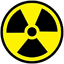
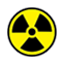
Added Male Female changer no functionality yet
All the items now appear on the side bar and can be deployed however now we will need only to implement correctly the sterilise class, female and male changers classes

Small corrections towards the icons a bit smaller

diff --git a/src/InGameController.java b/src/InGameController.java
@@ -45,6 +45,15 @@ public class InGameController implements Initializable {
     
     @FXML
     private TilePane poisonPane;
+    
+    @FXML
+    private TilePane sterilisePane;
+    
+    @FXML
+    private TilePane maleGenderChangePane;
+    
+    @FXML
+    private TilePane femaleGenderChangePane;
 
     @FXML
     private Canvas minimap;
@@ -104,6 +113,9 @@ public class InGameController implements Initializable {
         sideBar = sideBar + gasPane.getChildren().size() + ",";
         sideBar = sideBar + stopSignPane.getChildren().size() + ",";
         sideBar = sideBar + poisonPane.getChildren().size() + ",";
+        sideBar = sideBar + sterilisePane.getChildren().size() + ",";
+        sideBar = sideBar + maleGenderChangePane.getChildren().size() + ",";
+        sideBar = sideBar + femaleGenderChangePane.getChildren().size() + ",";
         return sideBar;
     }
 
@@ -145,6 +157,12 @@ public class InGameController implements Initializable {
             return "stopSign";
         } else if (type.equals(ElementType.Poison)) {
         	return "poison";
+        } else if (type.equals(ElementType.Sterilise)) {
+        	return "sterilise";
+        } else if (type.equals(ElementType.MaleGenderChange)) {
+        	return "maleGenderChange";
+        } else if (type.equals(ElementType.FemaleGenderChange)) {
+        	return "femaleGenderChange";
         }
         return "invalid type";
     }
@@ -196,6 +214,18 @@ public class InGameController implements Initializable {
         while(poisonPane.getChildren().size() >0) {
         	poisonPane.getChildren().remove(0);
         }
+        
+        while(sterilisePane.getChildren().size() > 0) {
+        	sterilisePane.getChildren().remove(0);
+        }
+        
+        while(maleGenderChangePane.getChildren().size() > 0) {
+        	maleGenderChangePane.getChildren().remove(0);
+        }
+        
+        while(femaleGenderChangePane.getChildren().size() > 0) {
+        	femaleGenderChangePane.getChildren().remove(0);
+        }
     }
 
 
@@ -220,11 +250,23 @@ public class InGameController implements Initializable {
                 if(stopSignPane.getChildren().size() <maxItems) {
                     stopSignPane.getChildren().add(getItem(ElementType.StopSign));
                 }
-            } else if(itemType.equals(ElementType.Poison)) {
+            } else if (itemType.equals(ElementType.Poison)) {
             	if(poisonPane.getChildren().size() <maxItems) {
             		poisonPane.getChildren().add(getItem(ElementType.Poison));
             	}
-            } else {
+            } else if (itemType.equals(ElementType.Sterilise)) {
+            	if (sterilisePane.getChildren().size() < maxItems) {
+            		sterilisePane.getChildren().add(getItem(ElementType.Sterilise));
+            	}
+        	} else if (itemType.equals(ElementType.MaleGenderChange)) {
+        		if (maleGenderChangePane.getChildren().size() < maxItems) {
+        			maleGenderChangePane.getChildren().add(getItem(ElementType.MaleGenderChange));
+        		}
+        	} else if (itemType.equals(ElementType.FemaleGenderChange)) {
+        		if (femaleGenderChangePane.getChildren().size() < maxItems) {
+        			femaleGenderChangePane.getChildren().add(getItem(ElementType.FemaleGenderChange));
+        		}
+        	} else {
                 System.out.println("invalid item type");
 
             }
@@ -254,6 +296,12 @@ public class InGameController implements Initializable {
             stopSignPane.getChildren().remove(0);
         } else if (lastItem.equals(ElementType.Poison)) {
         	poisonPane.getChildren().remove(0);
+        } else if (lastItem.equals(ElementType.Sterilise)) {
+        	sterilisePane.getChildren().remove(0);
+        } else if (lastItem.equals(ElementType.MaleGenderChange)) {
+        	maleGenderChangePane.getChildren().remove(0);
+        } else if (lastItem.equals(ElementType.FemaleGenderChange)) {
+        	femaleGenderChangePane.getChildren().remove(0);
         }
     }
 
@@ -275,6 +323,12 @@ public class InGameController implements Initializable {
             Game.currentLevel.addElement(new StopSign(ElementType.StopSign, Game.currentLevel, (int)(x/Game.gameSize), (int)(y/Game.gameSize), 3));
         } else if(type.equals(ElementType.Poison)) {
         	Game.currentLevel.addElement(new Poison(ElementType.Poison, Game.currentLevel, (int)(x/Game.gameSize), (int)(y/Game.gameSize), 1));
+    	} else if(type.equals(ElementType.Sterilise)) {
+    		Game.currentLevel.addElement(new Sterilise(ElementType.Sterilise, Game.currentLevel, (int)(x/Game.gameSize), (int)(y/Game.gameSize), 2));
+    	} else if(type.equals(ElementType.MaleGenderChange)) {
+    		Game.currentLevel.addElement(new MaleChanger(ElementType.MaleGenderChange, Game.currentLevel, (int)(x/Game.gameSize), (int)(y/Game.gameSize), 1));
+    	} else if(type.equals(ElementType.FemaleGenderChange)) {
+    		Game.currentLevel.addElement(new FemaleChanger(ElementType.FemaleGenderChange, Game.currentLevel, (int)(x/Game.gameSize), (int)(y/Game.gameSize), 1));
     	} else {
             System.out.println("invalid item type");
         }

diff --git a/src/FemaleChanger.java b/src/FemaleChanger.java
@@ -3,33 +3,35 @@ import javafx.scene.paint.Color;
 import javafx.scene.image.Image;
 
 
-/**
- * Class used for construction and behaviours of Steriliser elements
- * @author William Randle, Jack Lennard,
- */
-public class Sterilise extends Element {
-	
-	protected int sterilisedRats;
+
+public class FemaleChanger extends Element {
 	
 	private Image image;
+	
+	private int femaleChangeCount;
+	
+	
 
-    public Sterilise(ElementType type, Level level, int x, int y, int health) {
+	public FemaleChanger(ElementType type, Level level, int x, int y, int health) {
 		super(type, level, x, y, Direction.North, health);
 		// TODO Auto-generated constructor stub
 		
-		image = ImageLoader.getImage("sterilise.png", 64);
+		femaleChangeCount = 0;
 		
-		sterilisedRats = 0;
+		image = ImageLoader.getImage("femaleGenderChange.png", 64);
+		
 	}
-
-    /**
+	
+	
+	/**
      * Runs Tick() behaviours, allowing them to run logics automatically 
      * in time with other elements
      */
-    protected void tick() {
+	@Override
+	protected void tick() {
         if (level.getTile(x,y).getType().equals(TileType.Grass)) {
             level.removeElement(this);
-            System.out.println("deleting sterilise");
+            System.out.println("deleting female changer");
         }
         currentTick++;
         if(currentTick > tickSpeed) {
@@ -38,26 +40,24 @@ public class Sterilise extends Element {
         }
 
     }
-
-    /**
+	
+	/**
      * the logic of the Element
      */
     private void logic() {
-        if (this.sterilisedRats > 4){
+        if (this.femaleChangeCount == 1){
         	level.removeElement(this);
         }
     }
+    
 
-    public void steriliseRat(Rat rat) {
-        sterilisedRats++ ;
-        rat.makeSterile();
-    }
-              
 
-    /**
-     * renders a Sterilise sign
+	
+	/**
+     * renders a Male Changer sign
      * @param g graphics context
      */
+    @Override
     protected void render(GraphicsContext g) {
         double x = renderX();
         double y = renderY();
@@ -65,7 +65,5 @@ public class Sterilise extends Element {
         g.drawImage(image,x, y, size, size);
 
     }
-
-
 
 }

diff --git a/src/MaleChanger.java b/src/MaleChanger.java
@@ -3,33 +3,35 @@ import javafx.scene.paint.Color;
 import javafx.scene.image.Image;
 
 
-/**
- * Class used for construction and behaviours of Steriliser elements
- * @author William Randle, Jack Lennard,
- */
-public class Sterilise extends Element {
-	
-	protected int sterilisedRats;
+
+public class MaleChanger extends Element {
 	
 	private Image image;
+	
+	private int maleChangeCount;
+	
+	
 
-    public Sterilise(ElementType type, Level level, int x, int y, int health) {
+	public MaleChanger(ElementType type, Level level, int x, int y, int health) {
 		super(type, level, x, y, Direction.North, health);
 		// TODO Auto-generated constructor stub
 		
-		image = ImageLoader.getImage("sterilise.png", 64);
+		maleChangeCount = 0;
 		
-		sterilisedRats = 0;
+		image = ImageLoader.getImage("maleGenderChange.png", 64);
+		
 	}
-
-    /**
+	
+	
+	/**
      * Runs Tick() behaviours, allowing them to run logics automatically 
      * in time with other elements
      */
-    protected void tick() {
+	@Override
+	protected void tick() {
         if (level.getTile(x,y).getType().equals(TileType.Grass)) {
             level.removeElement(this);
-            System.out.println("deleting sterilise");
+            System.out.println("deleting male changer");
         }
         currentTick++;
         if(currentTick > tickSpeed) {
@@ -38,26 +40,24 @@ public class Sterilise extends Element {
         }
 
     }
-
-    /**
+	
+	/**
      * the logic of the Element
      */
     private void logic() {
-        if (this.sterilisedRats > 4){
+        if (this.maleChangeCount == 1){
         	level.removeElement(this);
         }
     }
+    
 
-    public void steriliseRat(Rat rat) {
-        sterilisedRats++ ;
-        rat.makeSterile();
-    }
-              
 
-    /**
-     * renders a Sterilise sign
+	
+	/**
+     * renders a Male Changer sign
      * @param g graphics context
      */
+    @Override
     protected void render(GraphicsContext g) {
         double x = renderX();
         double y = renderY();
@@ -65,7 +65,5 @@ public class Sterilise extends Element {
         g.drawImage(image,x, y, size, size);
 
     }
-
-
 
 }

diff --git a/src/Rat.java b/src/Rat.java
@@ -44,6 +44,8 @@ public class Rat extends Element {
         super(type, level, x, y, dir, health);
 
         this.isMale = isMale;
+        
+        this.isSterile = false;
 
         isChild = true;
 
@@ -130,6 +132,10 @@ public class Rat extends Element {
     public boolean getIsMale () {
         return isMale;
     }
+    
+    public void setIsMale(boolean isMale) {
+    	this.isMale = isMale;
+    }
 
     public Direction getDirection () {
         return dir;
@@ -148,12 +154,14 @@ public class Rat extends Element {
         for (Element element : level.getElements(x, y)) {
             if (element.getType().equals(ElementType.Rat)) {
                 Rat rat = (Rat) element;
-                if (rat.isMale == true) {
-                    System.out.println("should now mate");
-                    level.addElementLive(new Rat(ElementType.Rat, level, x, y, Game.random.nextBoolean(), Direction.North, 3));
-                    breeding = BREEDING_TIME;
-                    nextY = y;
-                    nextX = x;
+                if (rat.isSterile == false) {
+	                if (rat.isMale == true) {
+	                    System.out.println("should now mate");
+	                    level.addElementLive(new Rat(ElementType.Rat, level, x, y, Game.random.nextBoolean(), Direction.North, 3));
+	                    breeding = BREEDING_TIME;
+	                    nextY = y;
+	                    nextX = x;
+	                }
                 }
             }
         }
